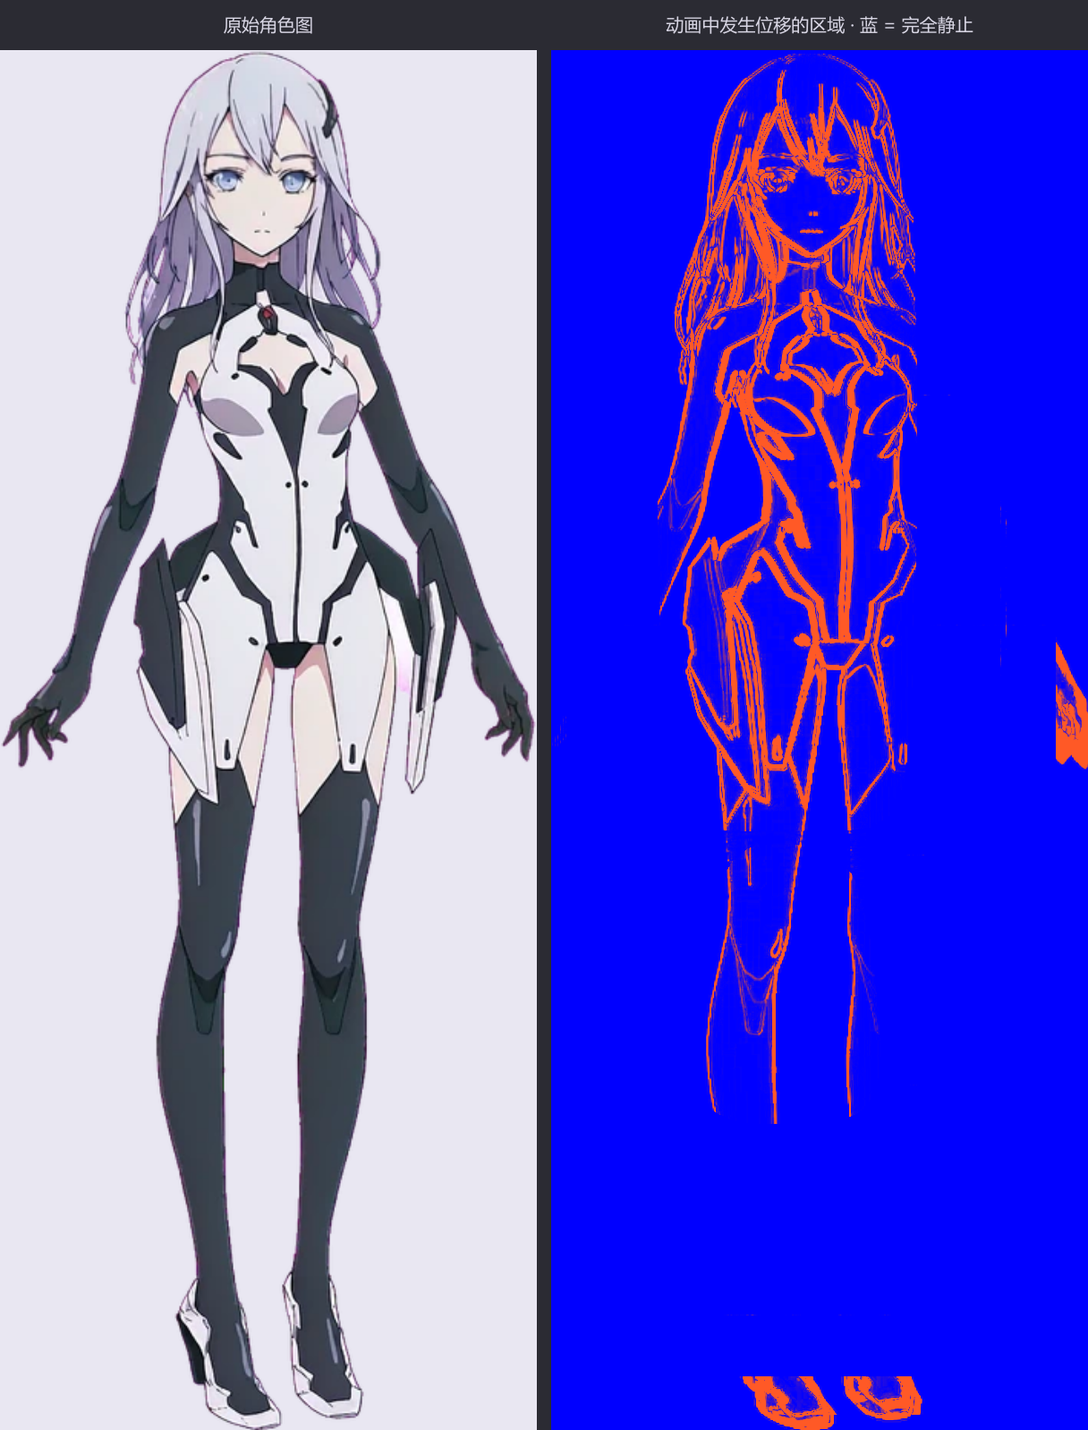
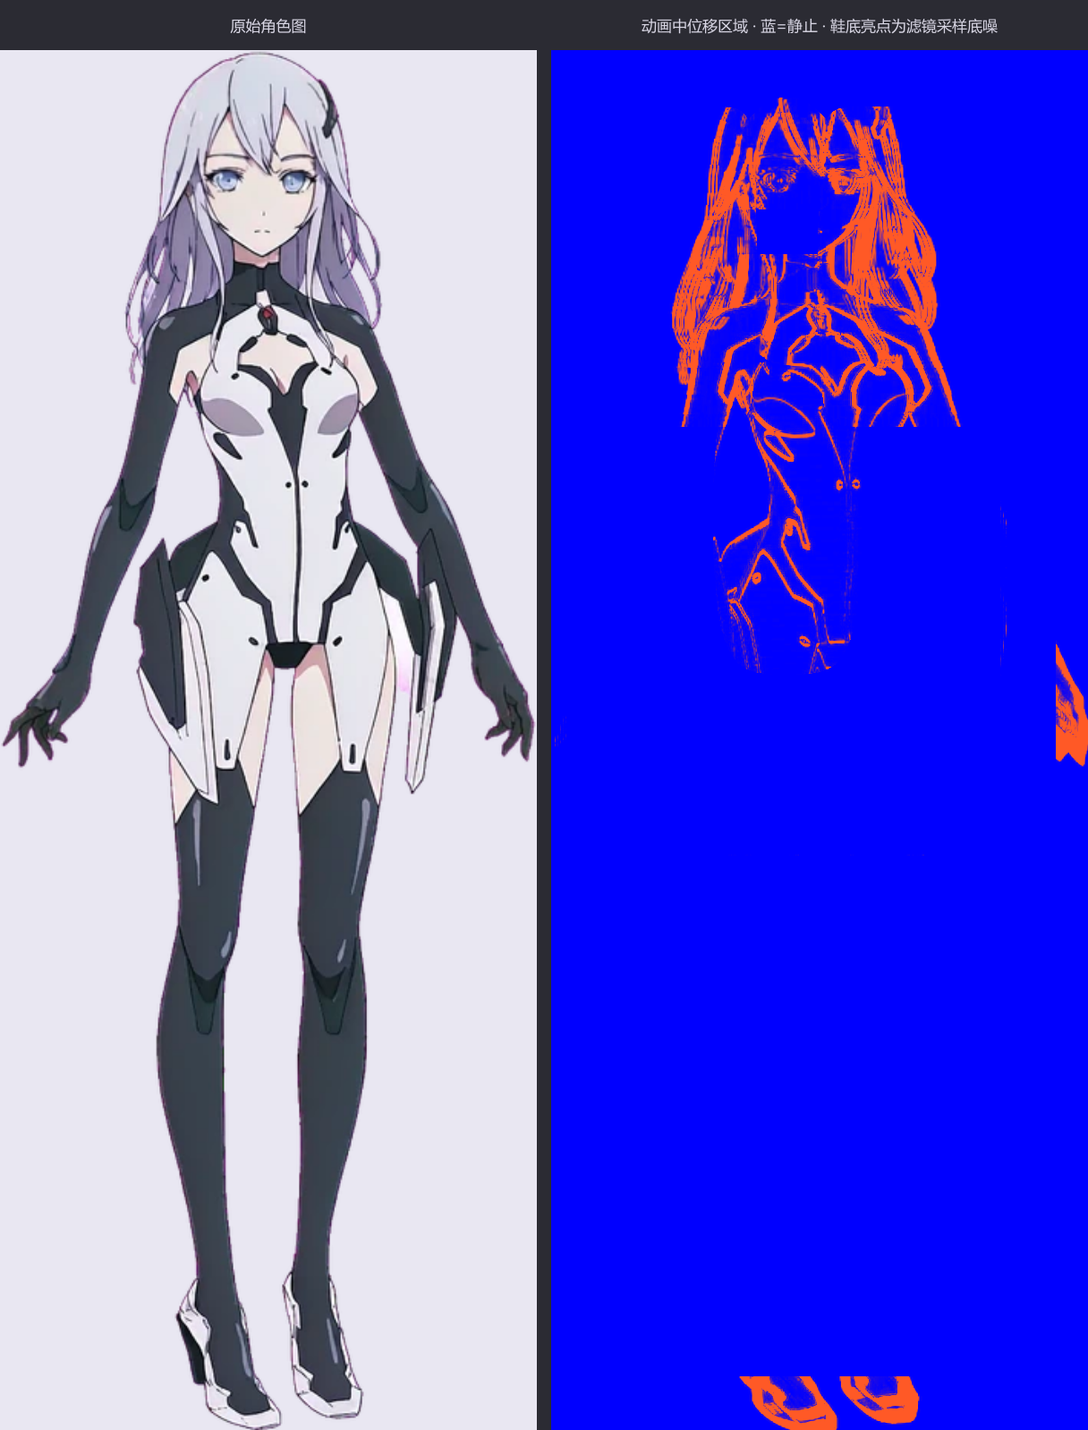
fix(mascot): 重调局部动效的形状与节奏
上一版能跑，但把每个区单独推到最大幅度一看，形态是错的。

形状
- 头发场在把整张脸横向推走：水平衰减写成了「中间满幅、两侧衰减」，
  而脸正好在中间。改成反向凹槽（中线为零、两侧满幅）。
- 头部旋转支点从头心挪到颈部。用头心做支点，头顶和下巴等幅反向移动，
  那是剪切，看起来像整颗头被斜着推。
- 头部旋转场的权重原来在头顶归零（1 - smoothstep(0.55,1,r)，而头顶
  r=1），实际只有头心周围一圈在动。改成头内恒为 1、头外才淡出。
- 删掉裙摆区。她穿连身衣没有裙摆，那个区把腿横向平移，像被人拖着走。
  位移场只是 (u,v) 的函数，分不清头发和同列的手臂，这是方法的硬边界。
- 呼吸只到腰。原来开到胯，把骨盆抬离双腿，看起来是腰在被拉长。

节奏
- 周期从「互质」改成「对齐」：原来头发 5.4s、头 7.2s、裙摆 5.9s，各晃
  各的。互质周期 ≠ 互相配合。现在头和头发都用 7s（和样式表整身摇摆
  一致），头发相位滞后 0.6rad，是一套动作带惯性。
- 头部幅度减半（0.019 → 0.012）。真实站立时头相对稳定，动的应该是头发；
  幅度大了像在左右张望。
- 波形加一条很慢的项（0.37 倍频），让循环不会两次落在同一个姿态。

交互
- 新增 setEnergy：睡着 0.4、常态 1.0、被拎起 1.7，缓动 τ≈0.3s。
- 修一个 bug：拖动时那句台词的 3.4s 计时器会把状态退回 idle，幅度在
  半空中掉回去。回退目标改成「还在拖就是 held」。

验证（隔离背景、关掉整身 CSS 动画、移除非 idle 帧）
              真实贴图   全中性贴图（底噪）
  头 + 头发     12.6%        0.0%
  上身           2.3%        1.2%
  腰腿           0.0%        0.0%
  脚             5.4%        5.4%   ← 全是底噪
  对照组全部 0.00%；拎起时幅度比 idle 高 1.8 倍

脚部那 5.4% 与中性贴图完全一致，说明不是位移：feDisplacementMap 只要
scale≠0，即使贴图全中性也会扰动约 1% 的边缘像素（8 位下 128/255 的偏差
乘 scale），鞋那种细白描边的区域能到 5%。这条已写进技能：先量底噪，
再判断场设计，别追像素统计。

素材图/角色/蕾西亚/动效_变化区域.png 已按新分区重出。

diff --git a/src/lib/mascot-warp.ts b/src/lib/mascot-warp.ts
@@ -80,40 +80,56 @@ function renderMap(w: number, h: number, field: Field): string {
 }
 
 /**
- * Build the four fields. Everything is derived from the head anchor and the
- * baseline, so an arbitrary pack needs no hand-tuned regions.
+ * Build the displacement fields. Everything is derived from the head anchor and
+ * the baseline, so an arbitrary pack needs no hand-tuned regions.
+ *
+ * Three zones, not four. A "hem" zone was tried and removed: it slides whatever
+ * is down there sideways, which reads as the legs skating across the floor on a
+ * character in a bodysuit. Anything below the hips is left alone.
+ *
+ * The hard constraint shaping all of this: a field is a function of (u, v)
+ * only, so it cannot tell hair from the arm behind it — they occupy the same
+ * columns. That is why the hair zone stops at the shoulders instead of running
+ * down the full length of the hair.
  */
 function buildFields(opts: WarpOptions): { name: string; field: Field }[] {
   const [hx, hy] = opts.head;
   const foot = Math.min(0.98, Math.max(0.6, opts.baseline));
 
-  // Hair: a pendulum hanging from the crown. The field has to reach zero at
-  // both ends of its span — roots are pinned by the scalp, and a hard edge at
-  // the tips would crease the artwork — so the peak sits at mid-length.
-  const hairTop = hy - 0.1;
-  const hairBottom = Math.min(foot - 0.08, hy + 0.52);
+  // Head: a turn about the neck, not a slide and not a spin about the head's
+  // own centre. Pivoting at the neck is what makes the crown travel while the
+  // jaw stays put; a centre pivot swings the chin as far as the crown, which
+  // reads as the head being sheared sideways.
+  const headRx = 0.115;
+  const headRy = 0.08;
+  const pivotY = hy + 0.045;
+  const head: Field = (u, v) => {
+    const nx = (u - hx) / headRx;
+    const ny = (v - pivotY) / headRy;
+    const w = 1 - smoothstep(0.92, 1.45, Math.hypot(nx, ny));
+    if (w <= 0) return [0, 0];
+    return [-Math.max(-1.3, Math.min(1.3, ny)) * w, 0];
+  };
+
+  // Hair: the mass beside the head lags the turn. Zero down the centre line —
+  // the face must not slide — and full strength from about a third of a head
+  // width outwards. The span ends at the shoulders because below that the arms
+  // sit in the same columns.
+  const hairTop = hy - 0.055;
+  const hairBottom = Math.min(foot - 0.5, hy + 0.2);
   const hair: Field = (u, v) => {
     if (v < hairTop || v > hairBottom) return [0, 0];
     const p = (v - hairTop) / (hairBottom - hairTop);
-    const along = Math.pow(Math.sin(Math.PI * p), 0.8);
-    return [along * span(u, hx, 0.1, 0.3), 0];
+    const along = Math.pow(Math.sin(Math.PI * p), 0.65);
+    const side = smoothstep(0.045, 0.145, Math.abs(u - hx));
+    return [along * side, 0];
   };
 
-  // Head: a rotation rather than a slide — offset is proportional to the
-  // distance from the head centre, so the crown and the chin move opposite ways.
-  const headRy = 0.085;
-  const headRx = 0.13;
-  const head: Field = (u, v) => {
-    const nx = (u - hx) / headRx;
-    const ny = (v - hy - 0.01) / headRy;
-    const w = 1 - smoothstep(0.55, 1, Math.hypot(nx, ny));
-    if (w <= 0) return [0, 0];
-    return [-ny * w, 0];
-  };
-
-  // Torso: breathing. Vertical, peaking at the chest, dead at the feet.
+  // Torso: breathing. Vertical, peaking at the chest, stopped at the waist —
+  // running it down to the hips lifts the pelvis off the legs, which reads as
+  // the waist stretching rather than as a breath.
   const chestTop = hy + 0.13;
-  const chestBottom = Math.min(foot, 0.94);
+  const chestBottom = Math.min(foot - 0.3, hy + 0.45);
   const torso: Field = (u, v) => {
     if (v < chestTop || v > chestBottom) return [0, 0];
     const p = (v - chestTop) / (chestBottom - chestTop);
@@ -121,37 +137,43 @@ function buildFields(opts: WarpOptions): { name: string; field: Field }[] {
     return [0, along * span(u, hx, 0.04, 0.2)];
   };
 
-  // Hem: skirt / legs, the slowest follower. It has to stop well above the
-  // shoes — a field that reaches the feet slides them across the floor, which
-  // reads as the whole figure being dragged rather than as cloth moving.
-  const hemTop = 0.58;
-  const hemBottom = Math.max(hemTop + 0.08, foot - 0.12);
-  const hem: Field = (u, v) => {
-    if (v < hemTop || v > hemBottom) return [0, 0];
-    const p = (v - hemTop) / (hemBottom - hemTop);
-    const along = Math.pow(p, 1.3) * (1 - smoothstep(0.7, 1, p));
-    return [along * span(u, hx, 0.05, 0.24), 0];
-  };
-
   return [
-    { name: 'hair', field: hair },
     { name: 'head', field: head },
+    { name: 'hair', field: hair },
     { name: 'torso', field: torso },
-    { name: 'hem', field: hem },
   ];
 }
 
-/** Amplitude (fraction of the rendered width), period (s) and phase (rad). */
+/**
+ * Amplitude (fraction of the rendered width), period (s) and phase (rad).
+ *
+ * Head and hair share a period so the hair is always *behind* the turn rather
+ * than drifting independently of it — independent periods read as two unrelated
+ * things wobbling, which is the opposite of the parts working together.
+ *
+ * That period is 7 s because the stylesheet's whole-body sway is 7 s. Matching
+ * it makes the body, the head and the hair one gesture with a little follow
+ * through, instead of the figure swaying while the head does its own thing.
+ * Breathing keeps 4.8 s, matching the stylesheet's breathing keyframes.
+ */
 const RHYTHM: Record<string, { amp: number; period: number; phase: number }> = {
-  hair: { amp: 0.026, period: 5.4, phase: 0 },
-  head: { amp: 0.019, period: 7.2, phase: 0.9 },
-  torso: { amp: 0.014, period: 4.8, phase: 1.9 },
-  hem: { amp: 0.017, period: 5.9, phase: 2.6 },
+  // Deliberately small: a real head stays fairly stable while the body sways,
+  // so the visible life comes from the hair, and the head only hints at a turn.
+  // At the default 240 px size this is about 4° of crown travel.
+  head: { amp: 0.012, period: 7, phase: 0 },
+  hair: { amp: 0.026, period: 7, phase: 0.6 },
+  torso: { amp: 0.013, period: 4.8, phase: 1.9 },
 };
 
 export interface WarpHandle {
   start(): void;
   stop(): void;
+  /**
+   * Amplitude multiplier, eased in: 1 is idle, ~0.4 reads as sleepy, ~1.7 as
+   * being carried. Used to make the parts react to what is happening rather
+   * than oscillating at one fixed rate forever.
+   */
+  setEnergy(k: number): void;
   destroy(): void;
 }
 
@@ -234,6 +256,10 @@ export function attachWarp(target: HTMLElement, opts: WarpOptions, mode: WarpMod
   let raf = 0;
   let t0 = 0;
   let last = 0;
+  // Amplitude multiplier, eased towards its target so a state change swells the
+  // motion instead of snapping it.
+  let energy = 1;
+  let wanted = 1;
   const FRAME = 1000 / 30; // 30 fps is plenty for a smooth drift
   const tick = (now: number) => {
     raf = requestAnimationFrame(tick);
@@ -241,12 +267,17 @@ export function attachWarp(target: HTMLElement, opts: WarpOptions, mode: WarpMod
     last = now;
     if (!t0) t0 = now;
     const t = (now - t0) / 1000;
+    // ~0.3 s to settle: slow enough not to snap, fast enough that being picked
+    // up reads as a reaction rather than as a fade.
+    energy += (wanted - energy) * 0.1;
     for (let i = 0; i < maps.length; i++) {
-      const r = RHYTHM[fields[i]?.name ?? ''] ?? RHYTHM.hair!;
+      const r = RHYTHM[fields[i]?.name ?? ''] ?? RHYTHM.torso!;
       const theta = (t / r.period) * Math.PI * 2 + r.phase;
-      // Fundamental plus a little second harmonic: a pure sine reads mechanical.
-      const wave = Math.sin(theta) * 0.8 + Math.sin(theta * 2 + 1.1) * 0.2;
-      maps[i]!.setAttribute('scale', (r.amp * intensity * width * wave).toFixed(2));
+      // Fundamental, a second harmonic for asymmetry, and a very slow term so
+      // the loop never lands on the same pose twice — a pure sine reads
+      // mechanical after ten seconds.
+      const wave = Math.sin(theta) * 0.74 + Math.sin(theta * 2 + 1.1) * 0.16 + Math.sin(theta * 0.37 + 2.3) * 0.1;
+      maps[i]!.setAttribute('scale', (r.amp * intensity * width * wave * energy).toFixed(2));
     }
   };
 
@@ -268,6 +299,9 @@ export function attachWarp(target: HTMLElement, opts: WarpOptions, mode: WarpMod
       cancelAnimationFrame(raf);
       raf = 0;
       maps.forEach((m) => m.setAttribute('scale', '0'));
+    },
+    setEnergy(k: number) {
+      wanted = Math.max(0, Math.min(3, k));
     },
     destroy() {
       cancelAnimationFrame(raf);

diff --git a/skills/mascot-studio/SKILL.md b/skills/mascot-studio/SKILL.md
@@ -258,46 +258,80 @@ image.setAttribute('href', canvas.toDataURL('image/png'));
 
 `feImage` 的三种引用方式在 Chromium 下都实测可用（外部 URL / data URI / 文档内片段 `#id`）。**优先用 data URI**：不用管跨域、不用管文件路径，角色包导入后立即生效。
 
-四个区各自一个 `feDisplacementMap`，各自的周期和相位，用 `requestAnimationFrame` 改 `scale` 属性即可（30fps 足够，纯正弦显得机械，叠一点二次谐波）：
+每个区一个 `feDisplacementMap`，用 `requestAnimationFrame` 改 `scale` 属性（30fps 足够；纯正弦显得机械，叠一点二次谐波和一条很慢的项）。
+
+**三个区，不是四个。** 曾经加过一个「裙摆」区，结果它把腿横向平移——穿连身衣的角色看起来像被人在拖着走。胯以下一律不动。
 
 | 区 | 轴 | 幅度（占渲染宽度） | 周期 | 作用 |
 |---|---|---|---|---|
-| hair | 水平 | 0.026 | 5.4s | 头发摆 |
-| head | 水平（绕头心旋转） | 0.019 | 7.2s | 头部轻转 |
-| torso | 垂直 | 0.014 | 4.8s | 呼吸 |
-| hem | 水平 | 0.017 | 5.9s | 裙摆跟随 |
+| head | 水平（绕**颈部**旋转） | 0.012 | 7s | 头部轻转 |
+| hair | 水平（脸部中线为零） | 0.026 | 7s，相位滞后 0.6rad | 头发跟随 |
+| torso | 垂直 | 0.013 | 4.8s | 呼吸 |
 
-头部那个不要写成平移，要写成 `dx = -ny * w`（离头心越远位移越大），这样头顶和下巴反向走，才像转头而不是整颗头在滑。
+三条关键取值理由：
 
-### 6.5 落地时又踩到的四个坑
+- **周期要和宿主样式表里的整身摇摆一致。** 本项目整身 rotate 是 7s，位移区也用 7s，头和身体才是一套动作。各自用 5.4 / 7.2 / 5.9 这种「互质周期」看着不呆板，实际读起来是三个东西各晃各的——**互质周期 ≠ 互相配合**。
+- **头的幅度要小。** 真实站立时头相对稳定，动的应该是头发。幅度开大（0.019 以上）像在左右张望，不像呼吸。默认尺寸下 0.012 大约是 4° 的头顶行程。
+- **呼吸只到腰。** 一路开到胯会把骨盆抬离双腿，看起来是腰在被拉长。
 
-1. **贴图要覆盖「滤镜区域」而不是「元素盒子」。** 滤镜区域默认带内边距（`x="-6%" width="112%"`），`feImage` + `preserveAspectRatio="none"` 会把图铺满整个区域。所以生成贴图时要把像素坐标反向换算回元素坐标，否则**所有区域会整体偏移、比例也不对**：
+### 6.5 位移场的形状：三个反直觉的地方
+
+1. **头的旋转支点在颈部，不在头心。** 用头心做支点，头顶和下巴会反向等幅移动，那是**剪切**，看起来像整颗头被斜着推。支点下移到脖子，头顶大幅摆、下巴几乎不动，才是转头。
+
+2. **旋转场的权重不能从中心往外衰减。** 写成 `w = 1 - smoothstep(0.55, 1, r)` 会让**头顶（r=1）权重为 0**——只剩头心周围一圈在动。正确写法是「头内权重恒为 1，只在头外淡出」：`w = 1 - smoothstep(0.92, 1.45, r)`。
+
+3. **头发场在脸部中线必须为零。** 一开始写成「中间满幅、两侧衰减」，结果**整张脸被横向推走**——脸的辨识度最高，一眼就看出不对。正确形状是反向的凹槽：`smoothstep(0.045, 0.145, |u - hx|)`，中线为零、两侧满幅。
+
+**而且头发区必须停在肩膀上方。** 位移场只是 `(u, v)` 的函数，**分不清头发和它后面同列的手臂**。头发一直垂到腰的角色，把场延伸到腰就等于把手臂一起摆。这是这个方法的硬边界，不是调参能解决的。
+
+4. **每个场都要在自己区域的边界上收敛到 0**，否则留一道折痕。所以纵向轮廓用中间高两头为 0 的鼓包 `sin(π·p)^0.65`，不能用单调函数。
+
+5. **能力探测别写错对象。** `createImageData` 在 `CanvasRenderingContext2D.prototype` 上，不在 `HTMLCanvasElement.prototype` 上。写错的后果是**静默返回 null，动效完全不生效，控制台一个错都没有**。
+
+6. **贴图要覆盖「滤镜区域」而不是「元素盒子」。** 滤镜区域默认带内边距（`x="-6%" width="112%"`），`feImage` + `preserveAspectRatio="none"` 会把图铺满整个区域。生成贴图时要把像素坐标反向换算回元素坐标，否则所有区域整体偏移、比例也不对：
 
    ```js
    const u = ((x + 0.5) / w) * (1 + 2 * PAD_X) - PAD_X;
    const v = ((y + 0.5) / h) * (1 + 2 * PAD_Y) - PAD_Y;
    ```
 
-2. **每个位移场必须在自己的区域边界上收敛到 0。** 否则边界处会留下一道折痕——正是位移贴图想避免的东西。所以「头发」不能用「越往下幅度越大」的单调函数，得用中间高、两头为 0 的鼓包：`sin(π·p)^0.8`。想要「发梢甩得最厉害」的观感，就接受「峰值在中段」这个折中。
+### 6.6 让动效对状态有反应
 
-3. **最下面那个区必须停在鞋子之上。** 一开始让裙摆场一路延伸到脚底，结果**鞋在动**——整张图看起来像被人拖着走。改成 `foot - 0.12` 收尾后，脚部变化降到 0。
+只用一个恒定幅度跑到底，看久了就是「一个在匀速摆的东西」。留一个 `setEnergy(k)` 接口，内部对幅度做缓动（τ ≈ 0.3s）：
 
-4. **能力探测别写错对象。** `createImageData` 在 `CanvasRenderingContext2D.prototype` 上，不在 `HTMLCanvasElement.prototype` 上。写错的后果是**静默返回 null，动效完全不生效，控制台一个错都没有**——排查了半天才发现是门口那道判断把自己挡住了。
+| 状态 | energy | 观感 |
+|---|---|---|
+| idle | 1.0 | 常态 |
+| sleep（深夜久无操作） | 0.4 | 几乎不动，只剩呼吸 |
+| held（被拖动） | 1.7 | 被拎起来，头发甩得厉害 |
 
-### 6.6 验证方法（血泪）
+缓动别写太慢：0.05/帧 时被拎起来要两秒才到位，看起来像渐变而不是反应。
 
-**测差异时必须把背景隔离掉。** 主题背景里的粒子/飘落物一直在动，不隔离的话「关掉形变」的对照组差异比「打开形变」还大，结论完全反过来。做法：给角色所在的元素垫一个纯色 `background`，或把页面清空只留一张图。隔离正确的话，**对照组差异必须是 0.00%**，不是 0.00% 就说明还有别的东西在动。
+顺带一个坑：拖动时那句台词如果带 3.4s 的计时器，计时结束会把状态退回 `idle`，**幅度在半空中掉回去**。回退目标要判一下「是不是还在拖」：`setDragging ? 'held' : 'idle'`。
 
-分带统计（头发 / 头肩 / 上身 / 裙腿 / 脚）能直接看出「该动的动了、不该动的没动」：
+### 6.7 验证方法（血泪）
+
+**一、必须把背景隔离掉。** 主题背景里的粒子一直在动，不隔离的话「关掉形变」的对照组差异比「打开形变」还大，结论完全反过来。给角色垫纯色 `background`，或清空页面只留一张图。
+
+**二、必须只留 idle 帧。** 眨眼是另一张图，换帧时全身都会「变化」，会把分带统计整个污染掉——排查半天以为是位移场漏到了脚上，其实是眨眼。测之前 `document.querySelectorAll('.mascot-frame:not([data-frame="idle"])').forEach(n => n.remove())`。
+
+**三、先测技术底噪，再判断场设计。** 这一条最省时间：`feDisplacementMap` 只要 `scale ≠ 0`，即使贴图**完全是中性**（128,128,128），也会让约 1% 的边缘像素发生变化（8 位下 128/255 = 0.50196，偏差 `scale × 0.00196`，再叠上滤镜重采样）。边缘密集的区域（比如细白描边的鞋）能到 5%。
+
+所以正确的顺序是：**先用全中性贴图跑一遍，量出每个分带的底噪**，再和真实贴图对比。本项目的实测：
 
 ```
-形变开启：头发 12.5%  头肩 10.9%  上身 4.6%  裙腿 0.0%  脚 0.0%
-形变关闭：全部 0.00%   ← 对照组必须全 0
+             真实贴图   全中性贴图（底噪）
+头            12.6%        0.0%
+上身           2.3%        1.2%
+腰腿           0.0%        0.0%
+脚             5.4%        5.4%   ← 全部是底噪
 ```
 
-**最后 5% 那点残差不要追。** 把贴图换成纯中性（128,128,128）再测，底部依然有差异：`128/255 = 0.50196`，理论位移是 `scale × 0.00196`，多级串联累积到亚像素；再加上滤镜边界采样，截图里会出现零星像素变化。放大两倍看鞋底，肉眼完全一致。**以放大后的肉眼判断为准，不要以像素统计为准。**
+脚部那 5.4% 和中性贴图一模一样，说明它**根本不是位移**。不要追这个数字，放大两倍肉眼看鞋底是完全静止的。**以放大后的肉眼判断为准，不要以像素统计为准。**
 
-性能：4 级滤镜、30fps 更新，实测页面帧间隔 p50/p95 = 16.7/16.8ms，和关闭时**完全一致**，Chromium 走的是 GPU 合成。放心用。
+**四、对照组的数字必须是 0.00%**，不是 0.00% 就说明还有别的东西在动（背景、换帧、整身 CSS 动画没关干净）。
+
+性能：3 级滤镜、30fps 更新，实测页面帧间隔 p50/p95 = 16.7/16.8ms，和关闭时**完全一致**，Chromium 走 GPU 合成。放心用。
 
 ## 7. 状态设计
 

diff --git a/素材图/网络素材/来源与署名.md b/素材图/网络素材/来源与署名.md
@@ -364,18 +364,29 @@ trim + 缩放 + PNG → WebP(q92)，未改人物。
 
 实测结论（写进 `skills/mascot-studio/SKILL.md` 第 6 节）：
 
-| 分区 | 变化像素占比 |
-|---|---|
-| 头发 | 12.5% |
-| 头肩 | 10.9% |
-| 上身 | 4.6% |
-| 裙腿 | 0.0% |
-| 脚 | 0.0%（放大两倍肉眼一致） |
+| 分区 | 真实贴图 | 全中性贴图（技术底噪） |
+|---|---|---|
+| 头 + 头发 | 12.6% | 0.0% |
+| 上身 | 2.3% | 1.2% |
+| 腰腿 | 0.0% | 0.0% |
+| 脚 | 5.4% | 5.4% ← 全是底噪，不是位移 |
 
 对照组（关掉形变）全部分区 **0.00%**，说明测量是干净的。
 
-踩到的坑：① 位移场在区域边界必须收敛到 0，否则留折痕；② 裙摆场一开始延伸到脚底，**鞋子跟着动**，收尾上移到 `foot - 0.12` 才停住；③ 能力探测写成了 `'createImageData' in HTMLCanvasElement.prototype`（该属性在 2D context 原型上），导致动效静默失效、控制台无任何报错。
+第一版调参时踩的坑，以及为什么现在是这个形状：
 
-性能：4 级滤镜、30fps 更新，页面帧间隔 p50/p95 = 16.7/16.8ms，与关闭时完全一致。
+1. **头发场一开始在把整张脸横向推走。** 水平衰减写成了「中间满幅、两侧衰减」，而脸正好在中间。改成反向凹槽（中线为零、两侧满幅）才对。脸的辨识度最高，这类错误一眼就能看出来。
+2. **头部旋转的支点从头心挪到了颈部。** 用头心做支点，头顶和下巴等幅反向移动，那是剪切，看起来像整颗头被斜着推。
+3. **头部旋转场的权重原来在头顶归零**（`1 - smoothstep(0.55, 1, r)`，而头顶 r=1），实际只有头心周围一圈在动。改成头内恒为 1、头外才淡出。
+4. **裙摆区整个删掉了。** 她穿的是连身衣没有裙摆，那个区把腿横向平移，像被人拖着走。胯以下一律不动。
+5. **呼吸只到腰。** 原来一路开到胯，把骨盆抬离双腿，看起来是腰在被拉长。
+6. **周期从「互质」改成「对齐」。** 原来头发 5.4s、头 7.2s、裙摆 5.9s，各晃各的——互质周期 ≠ 互相配合。现在头和头发都用 7s（和样式表里整身摇摆的周期一致），头发相位滞后 0.6rad，读起来是一套动作带着惯性。
+7. **头的幅度降了一半**（0.019 → 0.012）。真实站立时头相对稳定，动的应该是头发；幅度大了像在左右张望。
+
+另外加了一个 `setEnergy` 接口，让幅度跟着状态走：睡着 0.4（几乎只呼吸）、常态 1.0、被拎起 1.7（头发甩得厉害），缓动 τ≈0.3s。
+
+还有一个交互 bug：拖动时那句台词带 3.4s 计时器，计时结束会把状态退回 idle，**幅度在半空中掉回去**。回退目标改成「还在拖就是 held」。
+
+性能：3 级滤镜、30fps 更新，页面帧间隔 p50/p95 = 16.7/16.8ms，与关闭时完全一致。
 
 
